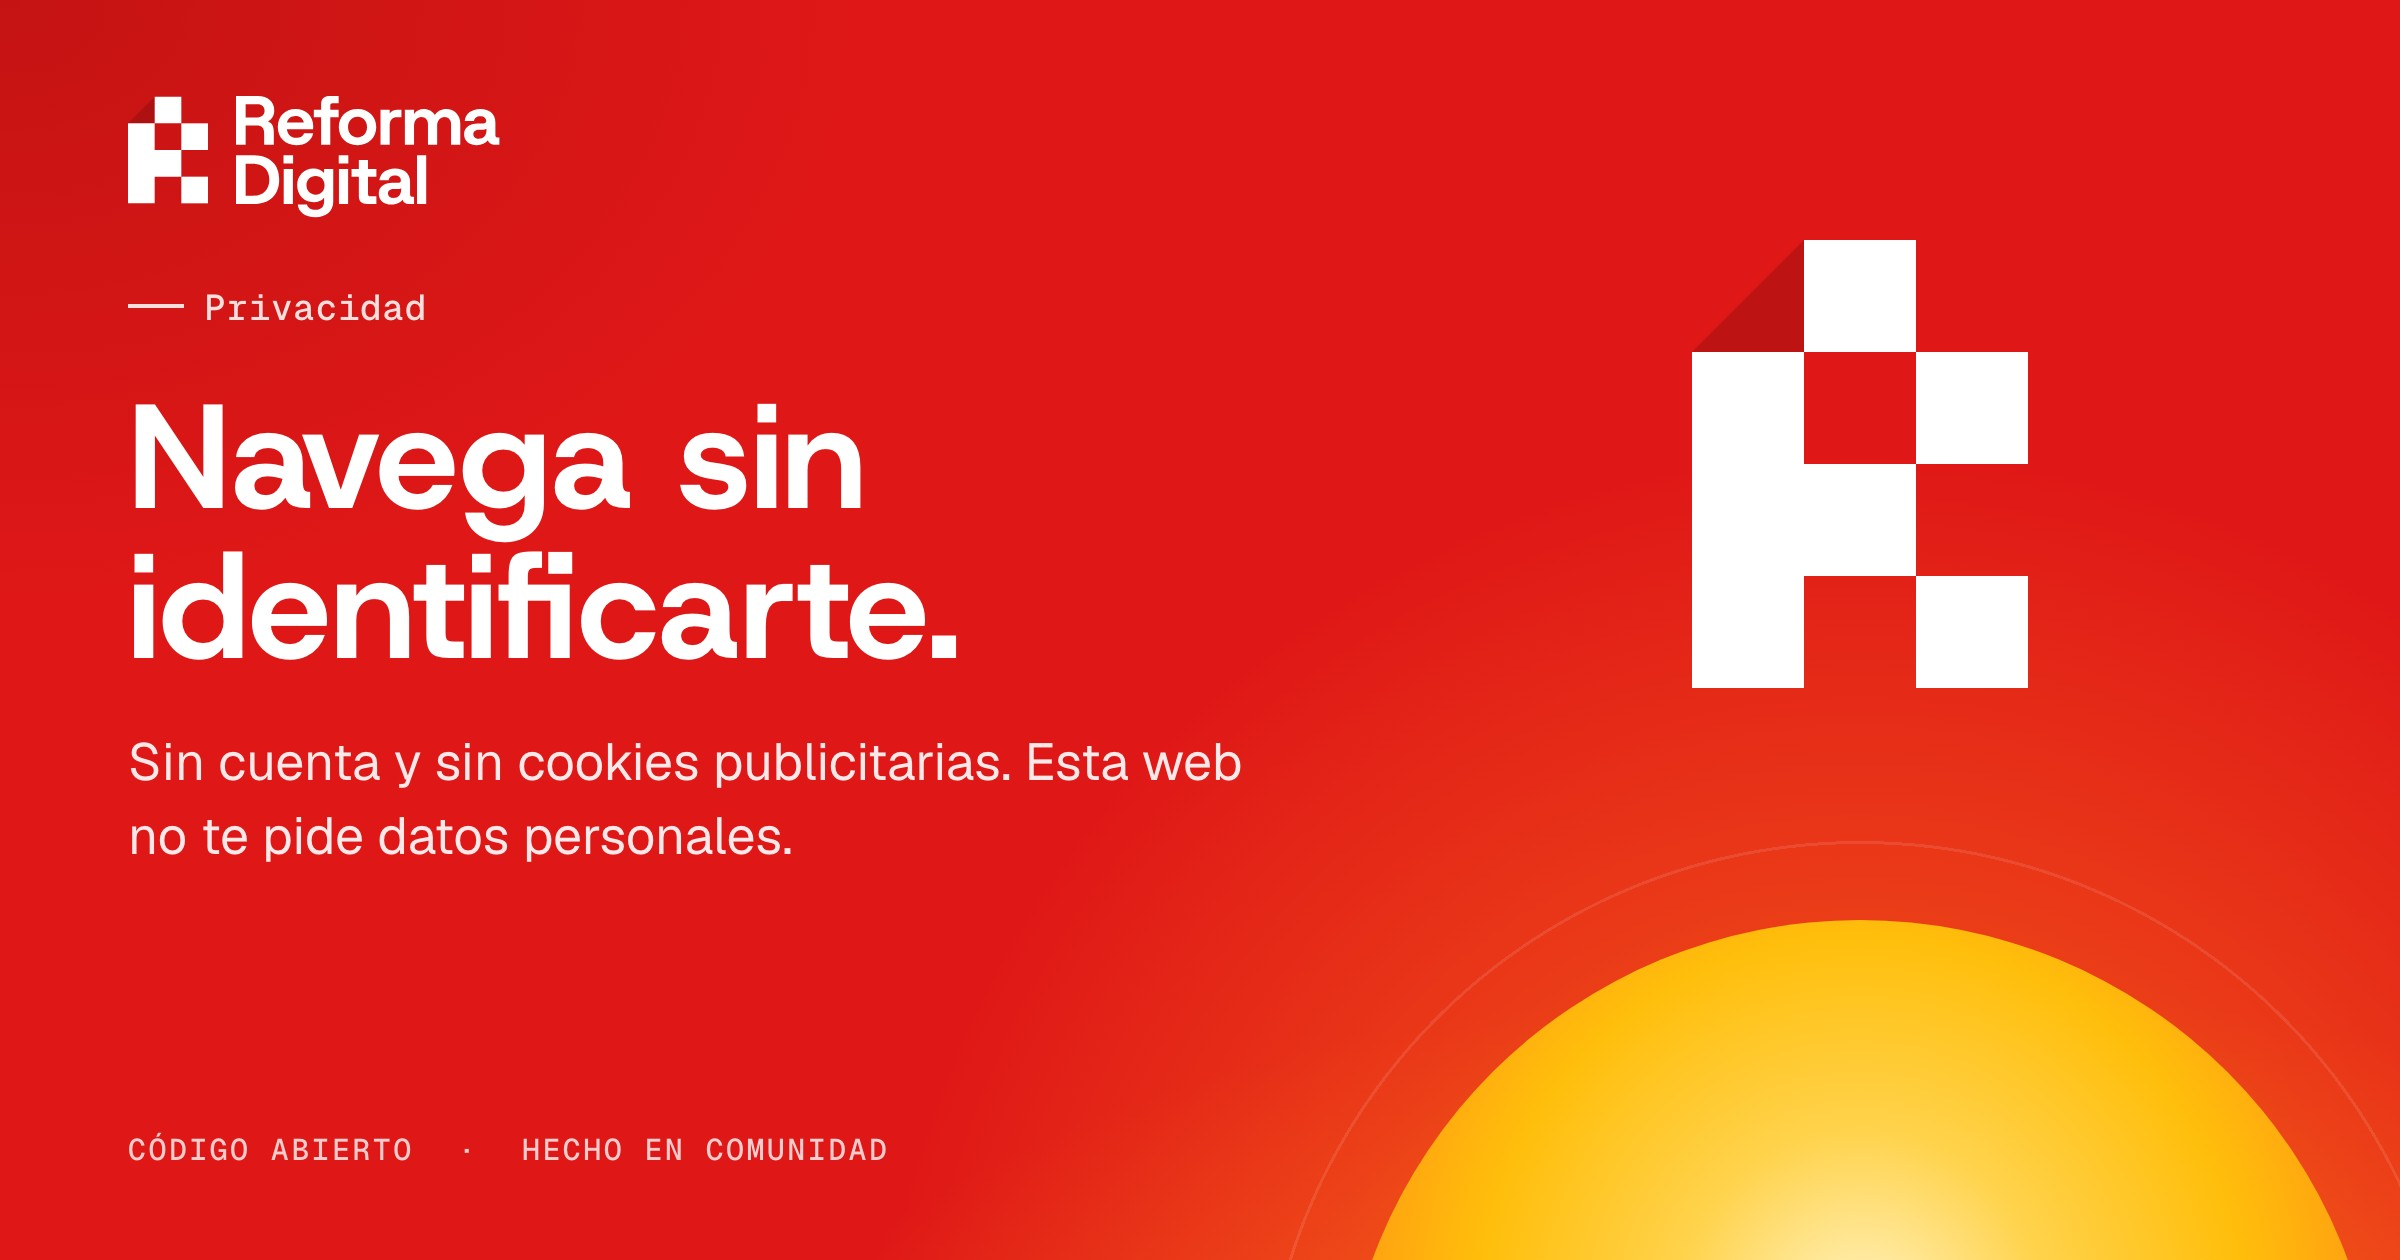
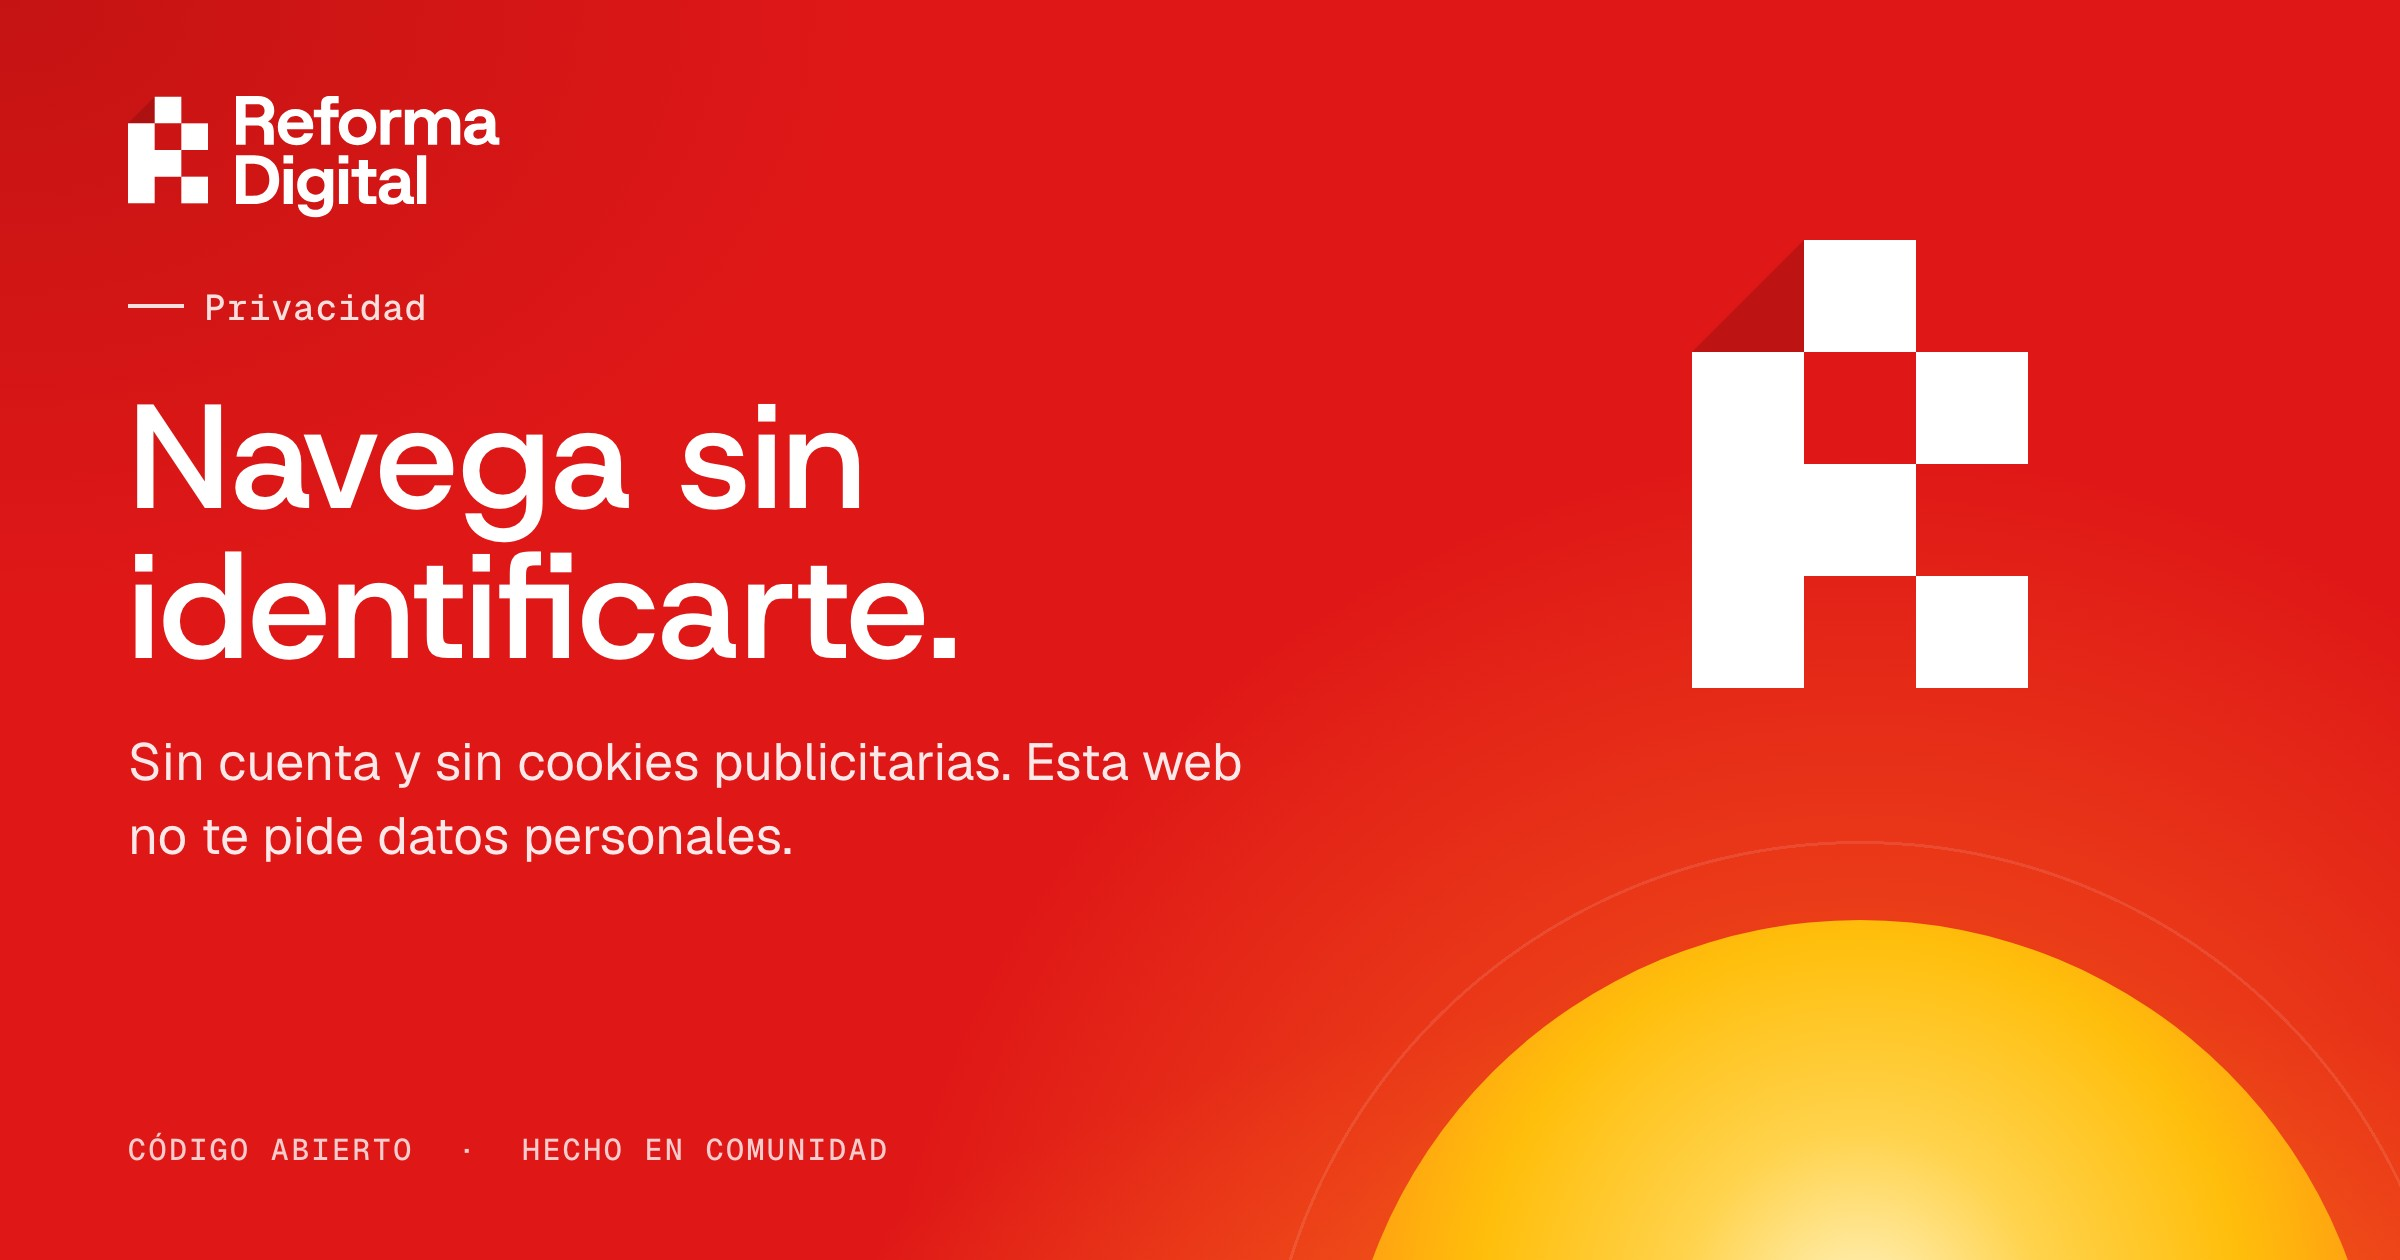
feat(design): baja los titulares a Host Grotesk Medium
Bold pesaba demasiado en los titulares de sección. Se queda Medium, sin
espaciado, en la web, la app y las imágenes OG; DESIGN.md lo recoge.

Changed region(s): [[0.0625, 0.4333, 0.4062, 0.5262], [0.0625, 0.3405, 0.25, 0.4333], [0.2812, 0.3405, 0.3438, 0.4024]]

diff --git a/apps/web/og/template.html b/apps/web/og/template.html
@@ -5,7 +5,7 @@
     <title>Reforma Digital</title>
     <link
       rel="stylesheet"
-      href="https://fonts.googleapis.com/css2?family=Host+Grotesk:wght@700&family=Geist:wght@400;500;600;700&family=Geist+Mono:wght@400;500&display=block"
+      href="https://fonts.googleapis.com/css2?family=Host+Grotesk:wght@500&family=Geist:wght@400;500;600;700&family=Geist+Mono:wght@400;500&display=block"
     />
     <style>
       :root {
@@ -144,7 +144,7 @@
       h1 {
         font-family: var(--font-titular);
         font-size: 74px;
-        font-weight: 700;
+        font-weight: 500;
         line-height: 1.02;
         text-wrap: balance;
       }

diff --git a/apps/web/components/brand/fuentes.ts b/apps/web/components/brand/fuentes.ts
@@ -3,10 +3,10 @@ import { Geist, Geist_Mono, Host_Grotesk } from 'next/font/google';
 const geist = Geist({ subsets: ['latin'], variable: '--font-geist' });
 // Sin preload: solo la usan etiquetas y datos pequeños, y no todas las páginas los muestran.
 const geistMono = Geist_Mono({ subsets: ['latin'], variable: '--font-geist-mono', preload: false });
-// Solo Bold: los titulares no usan otro grosor, aunque pidan `font-normal`.
+// Solo Medium: los titulares no usan otro grosor, aunque pidan `font-normal`.
 const hostGrotesk = Host_Grotesk({
   subsets: ['latin'],
-  weight: '700',
+  weight: '500',
   variable: '--font-host-grotesk',
 });
 

diff --git a/apps/desktop/src/renderer/app.css b/apps/desktop/src/renderer/app.css
@@ -1,4 +1,4 @@
-/* La app usa Inter, que va dentro de la app, y Host Grotesk Bold en los titulares. */
+/* La app usa Inter, que va dentro de la app, y Host Grotesk Medium en los titulares. */
 :root {
   --font-brand-text: 'Inter Variable', 'Helvetica Neue', Helvetica, Arial, sans-serif;
   --font-brand-heading: 'Host Grotesk', var(--font-brand-text);

diff --git a/apps/desktop/src/renderer/main.tsx b/apps/desktop/src/renderer/main.tsx
@@ -1,7 +1,7 @@
 import { StrictMode } from 'react';
 import { createRoot } from 'react-dom/client';
 import '@fontsource-variable/inter';
-import '@fontsource/host-grotesk/700.css';
+import '@fontsource/host-grotesk/500.css';
 import '@reforma-digital/design/desktop.css';
 import './app.css';
 import { App } from './app';

diff --git a/DESIGN.md b/DESIGN.md
@@ -186,7 +186,7 @@ Las primitivas viven en `packages/design/ui`, los bloques del chat en `packages/
 
 ### 8.1 Tipografía y retícula
 
-- Titulares y cifras grandes en `--font-brand-heading`: Host Grotesk Bold, sin espaciado añadido; nunca va en botones, menús ni texto corrido. Solo se carga el grosor 700, así que los titulares no usan otro aunque pidan `font-normal`. Todo lo demás (cuerpo, entradillas `.t-texto-l`, interfaz, botones, menús y chat) en `--font-texto` (Geist 400 y 500). Datos, números y etiquetas en `--font-mono` (Geist Mono 400 y 500). El logotipo no usa ninguna fuente: «Reforma Digital» va contorneado en Cassette SemiBold (`Logotipo`, de `@reforma-digital/design/ui/logotipo`). Host Grotesk, Geist y Geist Mono son OFL; Next las empaqueta y las sirve desde la propia web, y las imágenes OG (`og/template.html`) usan las mismas.
+- Titulares y cifras grandes en `--font-brand-heading`: Host Grotesk Medium, sin espaciado añadido; nunca va en botones, menús ni texto corrido. Solo se carga el grosor 500, así que los titulares no usan otro aunque pidan `font-normal`. Todo lo demás (cuerpo, entradillas `.t-texto-l`, interfaz, botones, menús y chat) en `--font-texto` (Geist 400 y 500). Datos, números y etiquetas en `--font-mono` (Geist Mono 400 y 500). El logotipo no usa ninguna fuente: «Reforma Digital» va contorneado en Cassette SemiBold (`Logotipo`, de `@reforma-digital/design/ui/logotipo`). Host Grotesk, Geist y Geist Mono son OFL; Next las empaqueta y las sirve desde la propia web, y las imágenes OG (`og/template.html`) usan las mismas.
 - Portada: titular centrado de 36–72 px; páginas informativas, de 36–60 px. Titulares de sección de 32–52 px, tarjetas de 24–30 px. Texto de lectura desde 16 px; ayudas y metadatos desde 14 px. Solo las etiquetas cortas en mayúsculas pueden medir 12 px.
 - Retícula común de 1200 px, con márgenes laterales de 20–24 px. Los artículos informativos limitan la lectura a 760 px y los párrafos a unas 65 letras de ancho. Las rejillas de colaboradores se separan con bordes compartidos, sin huecos ni sombras por celda. El equipo conserva cinco tarjetas por fila en escritorio.
 - La cabecera es la misma en todas las páginas, mide 80 px y se queda fija al bajar, sin barra detrás: cada pieza flota sola. Los enlaces son pastillas de cristal de 34 px (14 px de texto, `secondary` al 60 % con el fondo desenfocado y sin borde, para que el canto sea igual en todas) y «Participar» es la única opaca, con borde. Al pasar el ratón la pieza se oscurece un 6 %, igual que la página actual; el foco es un contorno de tinta de 2 px, visible sobre blanco y sobre el rojo, y la zona de clic llega a 40 px. Al bajar los primeros 40 px, «Reforma Digital» se pliega y la R, sin encoger (36 px), queda centrada en un icono blanco de 56 × 56 px con el borde de «Participar», con su borde superior a la altura del de los enlaces. Desplegado, el logo lleva a la portada; plegado, un clic vuelve arriba. Con el botón derecho (o pulsación larga) abre un menú con iconos de píxel: «Copiar el logo» (la R en SVG) y «Visitar la app» (`ContextMenu` de `@reforma-digital/design`); lo mueve el propio scroll (`animation-timeline`), sin JavaScript. La cabecera no lleva `view-transition-name`, porque cortaría el desenfoque: en `/equipo` queda fuera del `ViewTransition`. Los destinos de sección y el escenario de proyectos reservan sus 80 px, y la columna de El Congreso se pega a 96 px. Hasta 640 px, la navegación pasa a un `<dialog>` modal a pantalla completa (`mobile-menu.tsx`) que se abre con un círculo blanco con «+» y se despliega hacia abajo. Es amarilla para no confundirse con el rojo de la web: filas separadas por línea fina, sin números, y «Participar» en `primary` al pie. Objetivos de al menos 44 px.
@@ -249,7 +249,7 @@ El Congreso (`/congreso`) es una sección pública de Reforma Digital y usa Sol 
 La app de escritorio (`apps/desktop`) usa los mismos tokens y primitivas, con la composición de un cliente de chat de escritorio.
 
 - **Ventana.** Sin barra de título: la franja de 52 px de arriba sirve para arrastrar. En macOS lleva los semáforos a la izquierda, sobre la barra lateral; en Windows y Linux, los botones de la ventana a la derecha, del color del lienzo, y la cabecera de esa esquina les deja hueco (`.hueco-botones`). En Windows y Linux no hay barra de menú, pero sus atajos funcionan (Ctrl+N, Ctrl+,).
-- **Letra.** Inter en lugar de la Geist de la web (§8.1), empaquetada dentro de la app con `@fontsource-variable/inter`; los titulares, en Host Grotesk Bold (`@fontsource/host-grotesk/700.css`), también dentro de la app.
+- **Letra.** Inter en lugar de la Geist de la web (§8.1), empaquetada dentro de la app con `@fontsource-variable/inter`; los titulares, en Host Grotesk Medium (`@fontsource/host-grotesk/500.css`), también dentro de la app.
 - **Lienzo gris, superficies blancas, sin sombras.** Toda la ventana es `--muted`; lo que se lee o se rellena va en blanco: el mensaje de la persona, el compositor, las tarjetas de preguntas, el navegador del trámite y las secciones de «Mis datos» y «Ajustes» (radio 24). Nada lleva sombra, tampoco los desplegables: `desktop.css` vacía los tokens `--shadow-*`.
 - **Barra lateral de 260 px**, un poco más oscura que el lienzo (`foreground` al 2,5 %). Arriba, «Nuevo trámite» y «Mis datos»; después, los fijados y los trámites en filas de 36 px con el título en una línea y, a la derecha, cuánto hace del último cambio («5 min», «12 d») o un icono con su explicación al pasar: un «!» en un círculo amarillo si el asistente ofrece hacerlo por la persona, un «!» blanco en un círculo rojo si espera otra respuesta, un punto gris que late si trabaja y un check azul si ha terminado y la persona aún no lo ha abierto. Al pasar por una fila aparece la chincheta para fijarla. Abajo, la marca y «Ajustes». Las filas se oscurecen al pasar (4 %) y la activa queda marcada (7 %).
 - **Compositor** de radio 28 (§8.2): el texto arriba y, debajo, el selector de cuánto piensa el asistente, que se guarda en cada trámite, sin un segundo borde (§8.5), y el botón de enviar o detener. Mientras el asistente trabaja, lo que se escribe espera en una cola pegada encima del compositor («Añade otra petición para cuando termine»), con «Interrumpir» para mandarlo ya, antes de su siguiente paso, y la papelera; debajo de ese mensaje lo dice en gris. Si lo que espera es la tarjeta que ofrece hacer el trámite, el mensaje no va a la cola: la tarjeta queda cancelada y el mensaje abre una petición nueva, en la que el asistente vuelve a ofrecerlo si se lo pide. Al pasar por un mensaje de la persona que no es el primero sale «Volver a antes de este mensaje», que borra desde él y devuelve su texto al compositor. En la conversación, el texto se funde con el lienzo justo encima.
